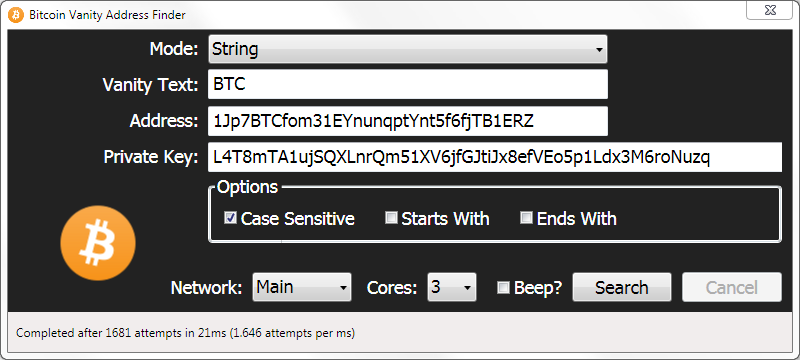
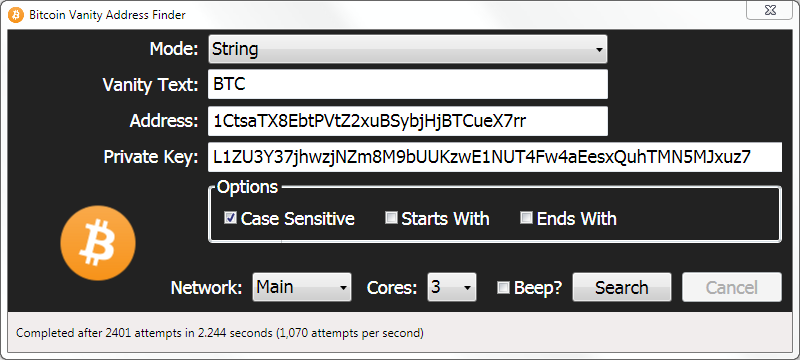
Fixed status text maths.

diff --git a/BitcoinVanityAddressFinder/ViewModel/VanityAddressViewModel.cs b/BitcoinVanityAddressFinder/ViewModel/VanityAddressViewModel.cs
@@ -256,9 +256,6 @@ namespace BitcoinVanityAddressFinder.ViewModel
 
         private async void Search()
         {
-            var stopwatch = new Stopwatch();
-            stopwatch.Start();
-
             Address = "";
             PrivateKey = "";
             StatusText = $"Searching using {CoreComboBoxSelectedItem} cores";
@@ -269,6 +266,9 @@ namespace BitcoinVanityAddressFinder.ViewModel
 
             try
             {
+                var stopwatch = new Stopwatch();
+                stopwatch.Start();
+
                 var result = await new VanityAddressService().Search(
                     CoreComboBoxSelectedItem,
                     ModeComboBoxSelectedItem,
@@ -280,10 +280,12 @@ namespace BitcoinVanityAddressFinder.ViewModel
                     NetworkComboBoxSelectedItem,
                     ct);
 
+                stopwatch.Stop();
+
                 var vanityPrivateKey = result.PrivateKey;
                 Address = vanityPrivateKey?.PubKey.GetAddress(NetworkComboBoxSelectedItem).ToString();
                 PrivateKey = vanityPrivateKey?.GetWif(NetworkComboBoxSelectedItem).ToString();
-                StatusText = $"Completed after {result.AttemptCount} attempts in {stopwatch.Elapsed.Milliseconds}ms ({(float)result.AttemptCount / stopwatch.ElapsedMilliseconds:N3} attempts per ms)";
+                StatusText = $"Completed after {result.AttemptCount} attempts in {stopwatch.Elapsed.TotalSeconds:N3} seconds ({result.AttemptCount / stopwatch.Elapsed.TotalSeconds:N0} attempts per second)";
 
                 if (IsBeep)
                 {
